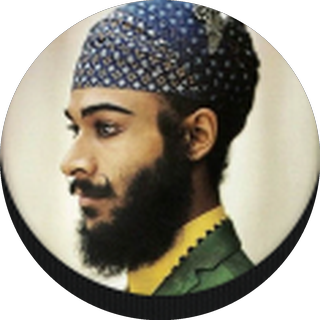
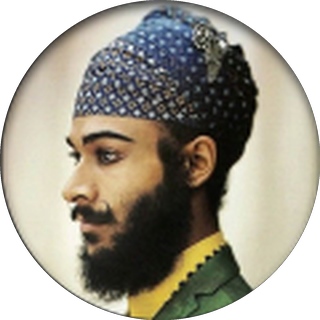
Add files via upload

diff --git a/server.js b/server.js
@@ -103,8 +103,8 @@ const timeAgo = (t) => { const d = (Date.now() - new Date(t + 'Z')) / 864e5; ret
 
 // ---------- templates ----------
 const ICONS = {
-  home: '<svg viewBox="0 0 24 24" width="17" height="17" aria-hidden="true"><path fill="currentColor" fill-rule="evenodd" d="M12 3.4 4.8 10.4V20.6h14.4V10.4zM10.3 20.6v-5.4h3.4v5.4z"/></svg>',
-  person: '<svg viewBox="0 0 24 24" width="18" height="19" aria-hidden="true"><path fill="currentColor" d="M12 2.6a4.6 4.6 0 0 1 2.62 8.38C17.1 12.02 18.7 14.1 18.7 16.6v4.8H5.3v-4.8c0-2.5 1.6-4.58 4.08-5.62A4.6 4.6 0 0 1 12 2.6z"/></svg>',
+  home: '<svg viewBox="0 0 24 24" width="19" height="19" aria-hidden="true"><path fill="currentColor" fill-rule="evenodd" d="M12 3.2 3.9 11.1V20.8h16.2V11.1zM9.7 20.8v-6.9h4.6v6.9z"/></svg>',
+  person: '<svg viewBox="0 0 24 24" width="19" height="20" aria-hidden="true"><path fill="currentColor" d="M12 2.2c2.35 0 4.15 2.2 4.15 5.05S14.35 12.3 12 12.3 7.85 10.1 7.85 7.25 9.65 2.2 12 2.2z"/><path fill="currentColor" d="M12 13.4c3.4 0 6.1 2.05 6.1 4.6v3.4H5.9v-3.4c0-2.55 2.7-4.6 6.1-4.6z"/></svg>',
   gear: '<svg viewBox="0 0 24 24" width="17" height="17" aria-hidden="true"><path fill="currentColor" fill-rule="evenodd" d="M22.77 9.77 L22.77 14.23 L20.36 14.01 L19.33 16.49 L21.19 18.04 L18.04 21.19 L16.49 19.33 L14.01 20.36 L14.23 22.77 L9.77 22.77 L9.99 20.36 L7.51 19.33 L5.96 21.19 L2.81 18.04 L4.67 16.49 L3.64 14.01 L1.23 14.23 L1.23 9.77 L3.64 9.99 L4.67 7.51 L2.81 5.96 L5.96 2.81 L7.51 4.67 L9.99 3.64 L9.77 1.23 L14.23 1.23 L14.01 3.64 L16.49 4.67 L18.04 2.81 L21.19 5.96 L19.33 7.51 L20.36 9.99 Z M12 15.4a3.4 3.4 0 1 0 0-6.8 3.4 3.4 0 0 0 0 6.8z"/></svg>',
   key: '<svg viewBox="0 0 24 24" width="10" height="23" aria-hidden="true"><circle cx="12" cy="5.4" r="4.4" fill="currentColor"/><path fill="currentColor" d="M10.6 9.2h2.8v13.4l-1.4 1.4-1.4-1.4z"/><path fill="currentColor" d="M13.4 13.4h4v2.2h-4zM13.4 17.4h3v2.2h-3z"/></svg>',
   chev: '<svg viewBox="0 0 24 24" width="15" height="15" aria-hidden="true"><path d="M9 4.5 16.5 12 9 19.5" fill="none" stroke="currentColor" stroke-width="3" stroke-linecap="round" stroke-linejoin="round"/></svg>',
@@ -444,7 +444,7 @@ const pages = {
       if (owner && vis === 'private') rows = rows.filter((o) => o.private);
       if (cid) { const ids = new Set(q('SELECT object_id FROM object_collections WHERE collection_id=?').all(cid).map((r) => r.object_id)); rows = rows.filter((o) => ids.has(o.id)); }
       if (s) rows = rows.filter((o) => (o.name + ' ' + o.why + ' ' + o.tags).toLowerCase().includes(s.toLowerCase()));
-      const tile = (id, name, count, image, on) => `<div class="tile-slot"><a class="tile ${on ? 'on' : ''}" href="${link('notes', `&c=${id}${vis !== 'all' ? '&v=' + vis : ''}`)}"><span class="tile-img" ${image ? `style="background-image:url('${esc(image)}')"` : ''}>${image ? '' : `<span class="tile-glyph">${ICONS.lens}</span>`}</span><span class="tile-name">${esc(name)}</span><span class="tile-count">${count}</span></a>${owner && id && on ? `<button type="button" class="tile-del" data-del-id="${id}" data-del-name="${esc(name)}" aria-label="Delete collection"><img src="/minus.png" alt="" width="28" height="28"></button>` : ''}</div>`;
+      const tile = (id, name, count, image, on) => `<div class="tile-slot"><a class="tile ${on ? 'on' : ''}" href="${link('notes', `&c=${id}${vis !== 'all' ? '&v=' + vis : ''}`)}"><span class="tile-img" ${image ? `style="background-image:url('${esc(image)}')"` : ''}>${image ? '' : `<span class="tile-glyph">${ICONS.lens}</span>`}</span><span class="tile-name">${esc(name)}</span><span class="tile-count">${count}</span></a>${owner && id && on ? `<button type="button" class="tile-del" data-del-id="${id}" data-del-name="${esc(name)}" aria-label="Delete collection"><img src="/close.png" alt="" width="28" height="28"></button>` : ''}</div>`;
       main = `<h3 class="strip">${esc(u.name)}'s Notes</h3>
       <div class="tiles-wrap">
         <div class="tiles-nav"><button type="button" class="tiles-arrow" data-scroll="-1" aria-label="Scroll collections left"><img src="/chev.png" alt="" width="26" height="26"></button><button type="button" class="tiles-arrow" data-scroll="1" aria-label="Scroll collections right"><img src="/chev.png" alt="" width="26" height="26"></button></div>
@@ -452,7 +452,7 @@ const pages = {
           <form class="tile tile-new" method="post" action="/collections/new">
             <span class="tile-img"><img src="/plus-sm.png" alt="" width="40" height="40"></span>
             <span class="tile-name">New collection</span>
-            <span class="tile-count"><input name="name" placeholder="NAME IT" maxlength="40" required><span class="tile-ctas"><button type="button" class="tile-cta" data-cancel-new>Cancel</button><button class="tile-cta tile-cta-go">Save</button></span></span>
+            <span class="tile-count"><input name="name" placeholder="NAME IT" maxlength="40" required><span class="tile-ctas"><button class="tile-cta tile-cta-go">Save</button><button type="button" class="tile-cta" data-cancel-new>Cancel</button></span></span>
           </form>` : ''}</div>
       </div>
       <form class="within" method="get" action="/u/${esc(u.handle)}"><input type="hidden" name="tab" value="notes">${cid ? `<input type="hidden" name="c" value="${cid}">` : ''}${vis !== 'all' ? `<input type="hidden" name="v" value="${esc(vis)}">` : ''}<input type="search" name="q" placeholder="Search within below" value="${esc(s)}"></form>
@@ -666,7 +666,7 @@ async function mcp(req, res, tok) {
 }
 
 // ---------- router ----------
-const STATIC = { '/style.css': 'text/css', '/mark.png': 'image/png', '/nub.png': 'image/png', '/favicon.png': 'image/png', '/plus.png': 'image/png', '/plus-sm.png': 'image/png', '/minus.png': 'image/png', '/chev.png': 'image/png' };
+const STATIC = { '/style.css': 'text/css', '/mark.png': 'image/png', '/nub.png': 'image/png', '/favicon.png': 'image/png', '/plus.png': 'image/png', '/plus-sm.png': 'image/png', '/minus.png': 'image/png', '/chev.png': 'image/png', '/close.png': 'image/png' };
 
 async function handle(req, res) {
   const url = new URL(req.url, 'http://x');

diff --git a/public/style.css b/public/style.css
@@ -44,6 +44,8 @@
   --curtain-frame: rgba(0,0,0,.5);
   --curtain-nub: rgba(0,0,0,.75);
   --nub-gold: #dfcf87;
+  --nav-active: #d6d0e6;   /* very pale lavender for the active rail icon */
+  --date-ink: #7a7773;     /* stacked date on light ground */
   --nf-card: #dcdad6;
   --nf-field: #f3f2ef;
   --nf-field-soft: #e1dfdb;
@@ -172,7 +174,7 @@ img.avatar { object-fit: cover; object-position: center; box-shadow: inset 0 0 0
 .avatar.big { width: 6rem; height: 6rem; margin: 0 auto; font-size: 2.7rem;
   box-shadow: var(--avatar-shadow-big); }
 img.avatar.big { box-shadow: inset 0 0 0 1px rgba(0,0,0,.2), 0 0 0 1px rgba(255,255,255,.07); }
-.stackdate { display: flex; flex-direction: column; align-items: center; line-height: 1; margin-top: .6rem; color: #949494; font-weight: 300; }
+.stackdate { display: flex; flex-direction: column; align-items: center; line-height: 1; margin-top: .6rem; color: var(--date-ink); font-weight: 300; }
 .stackdate .mon { font-size: .95rem; text-transform: uppercase; letter-spacing: .04em; }
 .stackdate .day { font-size: 2.2rem; font-weight: 400; margin: .1rem 0; }
 .stackdate .yr { font-size: .9rem; }
@@ -485,9 +487,9 @@ main > .settings { max-width: 30rem; margin: 0 auto !important; padding: 0 !impo
 .iconrail a + a::before, .iconrail a + .iconrail-btn::before { content: ""; position: absolute; top: 0; left: 12px; right: 10px; height: 2px;
   background: linear-gradient(var(--hr-dark) 0 1px, var(--hr-dark-lift) 1px 2px); }
 .iconrail a:hover { color: #fff; }
-.iconrail a.on { color: #d8c98f; }              /* pale gold, subtle */
+.iconrail a.on { color: var(--nav-active); }
 .iconrail a.on::after { content: ""; position: absolute; left: 0; top: 26%; bottom: 26%; width: 2px;
-  background: linear-gradient(transparent, rgba(216,201,143,.7), transparent); }
+  background: linear-gradient(transparent, rgba(214,208,230,.65), transparent); }
 .iconrail svg { opacity: .92; }
 body.is-in { padding-top: var(--searchbar-h); }
 body.is-in main.wrap, body.is-in footer.wrap { padding-left: 62px; }
@@ -525,7 +527,7 @@ a.wcell:hover { background: rgba(0,0,0,.25); text-decoration: none; }
 .feed-plain { background-color: transparent; background-image: none; }
 .feed-plain .strip { background: transparent; color: var(--chrome-text); }
 .feed-plain .strip::after { background: linear-gradient(rgba(0,0,0,.45) 0 1px, rgba(0,0,0,.32) 1px, rgba(0,0,0,0) 5px); }
-.feed-plain .stackdate { color: var(--chrome-muted); }
+.feed-plain .stackdate { color: var(--chrome-muted); }   /* on the dark home feed */
 .feed-plain .empty { color: var(--chrome-muted); }
 
 /* ---- article page: exact feed card, plus comments ---- */
@@ -669,9 +671,19 @@ main > .notecard-page { max-width: 33rem; margin: 1.2rem auto 2.6rem !important;
 .dialog:hover { transform: translate(50%, -100%); }
 .dialog.is-open:hover { transform: translate(50%, 0); }
 .dialog .curtain-tail { height: 29px; }
+.dialog .nf-box { background-color: #2c2c2c; background-image: var(--stripe), var(--mottle);
+  background-size: auto, 200px 200px; background-attachment: fixed, fixed;
+  box-shadow: 0 0 0 1px var(--table-rule), 0 6px 18px rgba(0,0,0,.55); }
+.dialog .curtain-frame { background: rgba(0,0,0,.62); }
+.dialog .tail-band { background: rgba(0,0,0,.62); }
 .dlg-title { margin: 0 0 .5rem; font-family: var(--slab); font-weight: 700; font-size: .78rem; letter-spacing: .14em;
-  text-transform: uppercase; color: var(--nf-ink); }
-.dlg-copy { margin: 0 0 .3rem; font-size: .9rem; line-height: 1.5; color: #4b4844; }
+  text-transform: uppercase; color: var(--chrome-text); }
+.dlg-copy { margin: 0 0 1.1rem; font-size: .92rem; line-height: 1.5; color: rgba(255,255,255,.68); }
+.dialog .nf-post { color: var(--chrome-text); border: var(--cta-border); background-color: transparent;
+  background-image: var(--btn3d-face); box-shadow: 0 1px 0 rgba(255,255,255,.05) inset; text-shadow: none; }
+.dialog .nf-post:hover { background-image: var(--btn3d-face-hover); color: #fff; }
+.dialog .nf-link-btn { color: var(--chrome-muted); }
+.dialog .nf-link-btn:hover { color: #fff; }
 
 /* ---- rail rule pattern: hairline sits above the heading ---- */
 .rail h3.lbl.ruled { border-bottom: 0; padding-bottom: 0; padding-top: .75rem; position: relative; }
